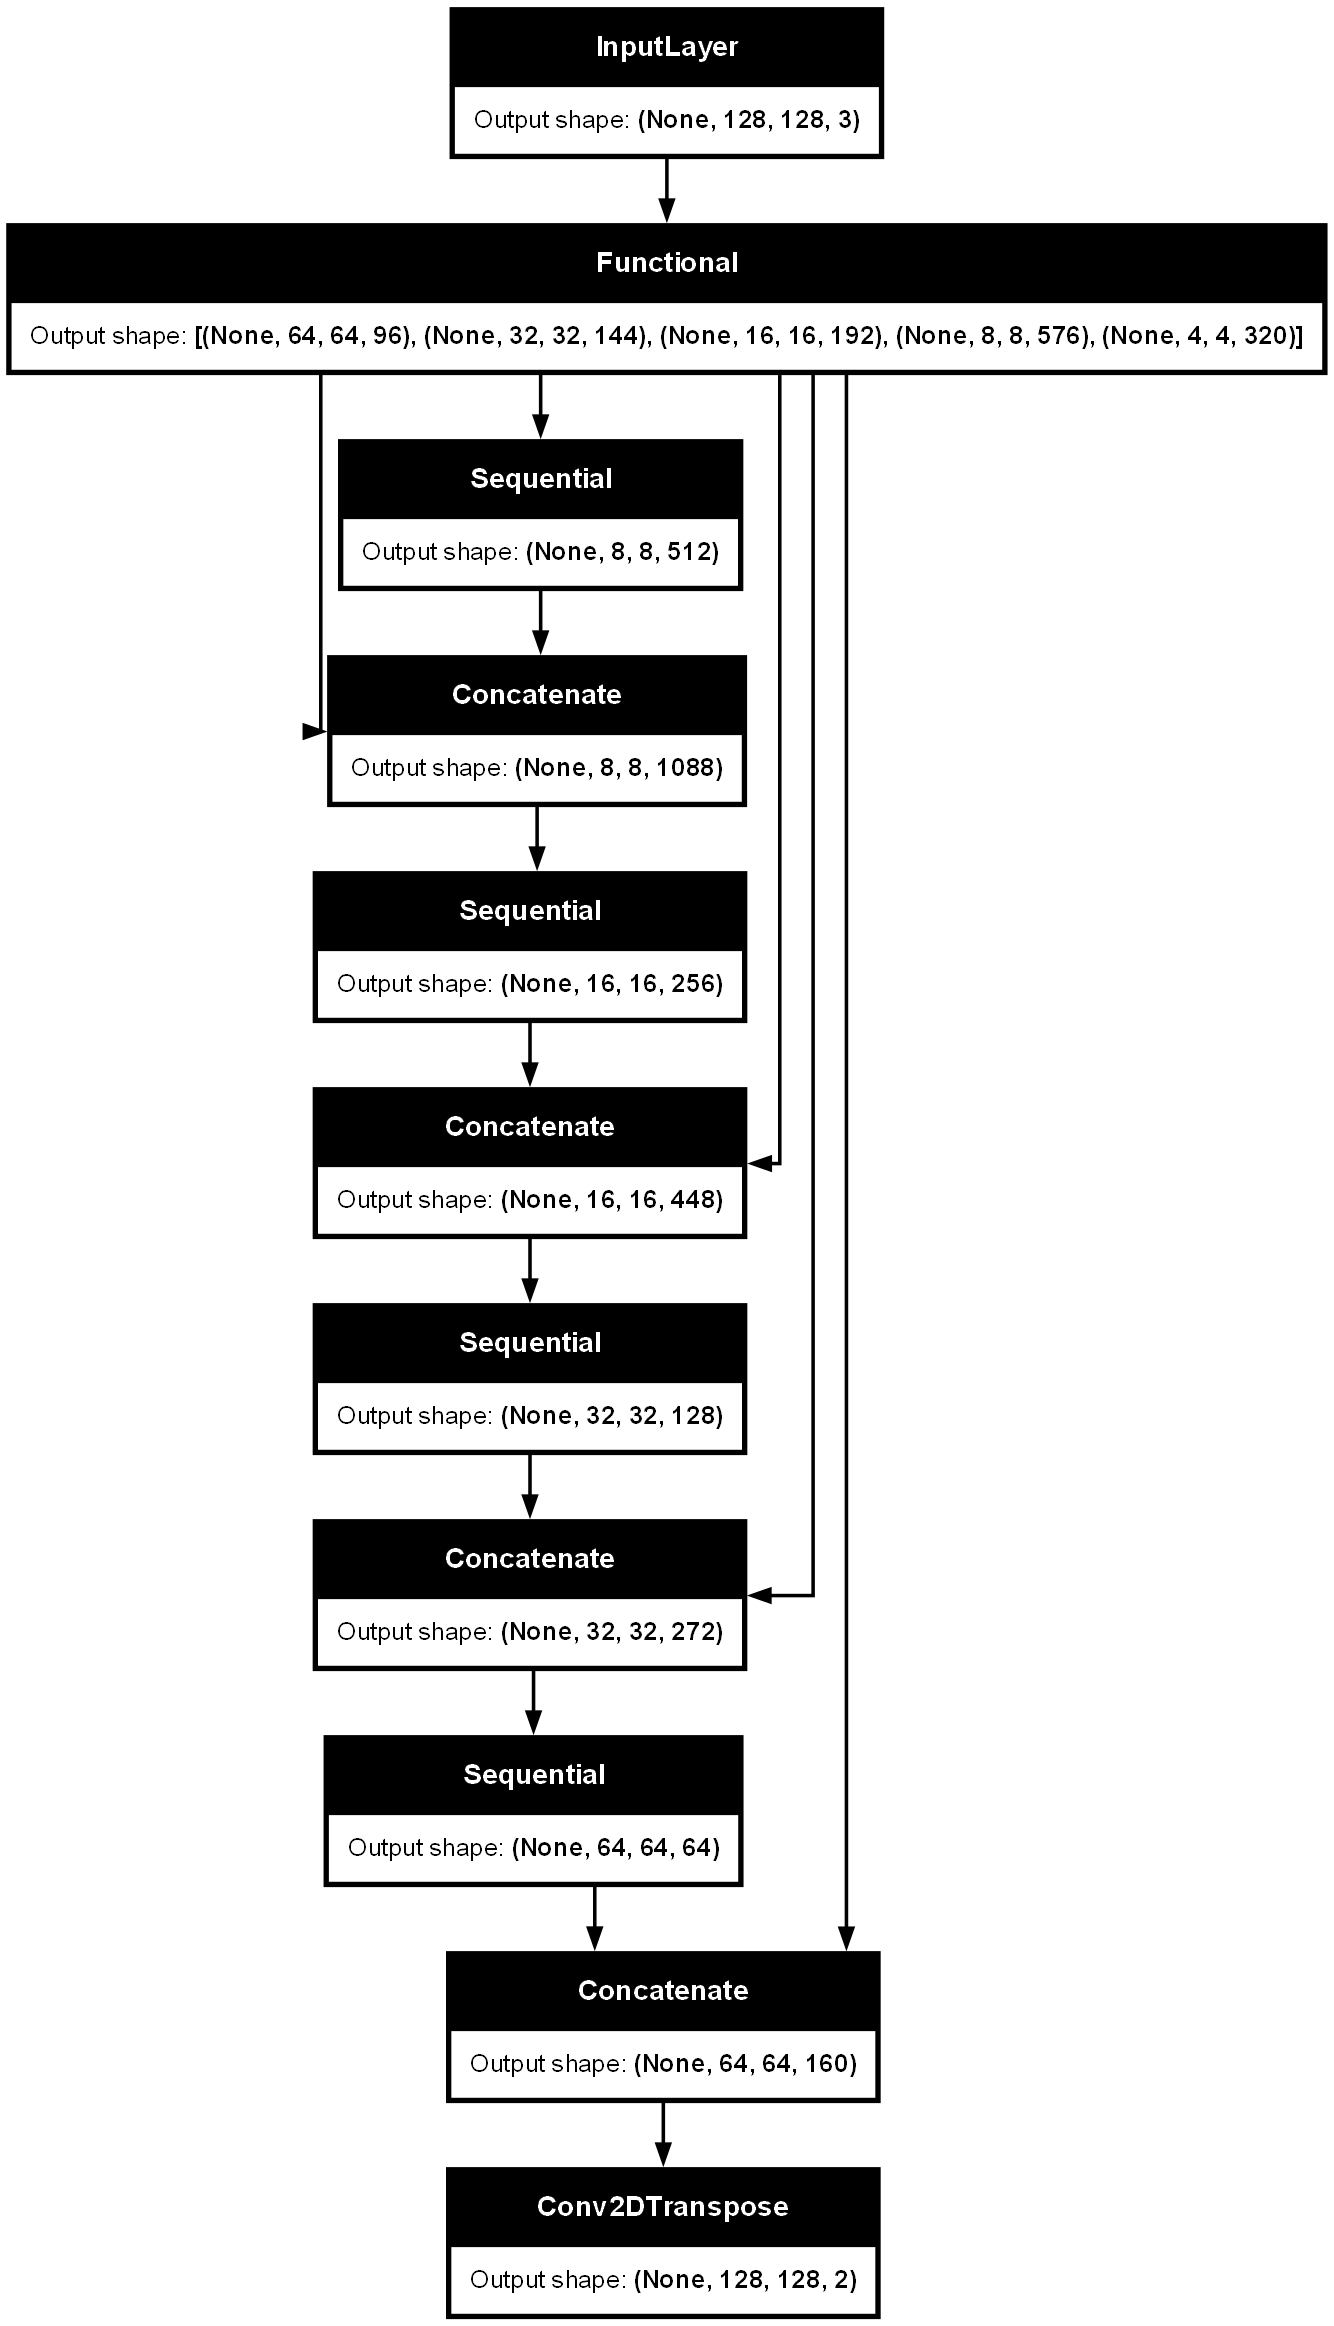
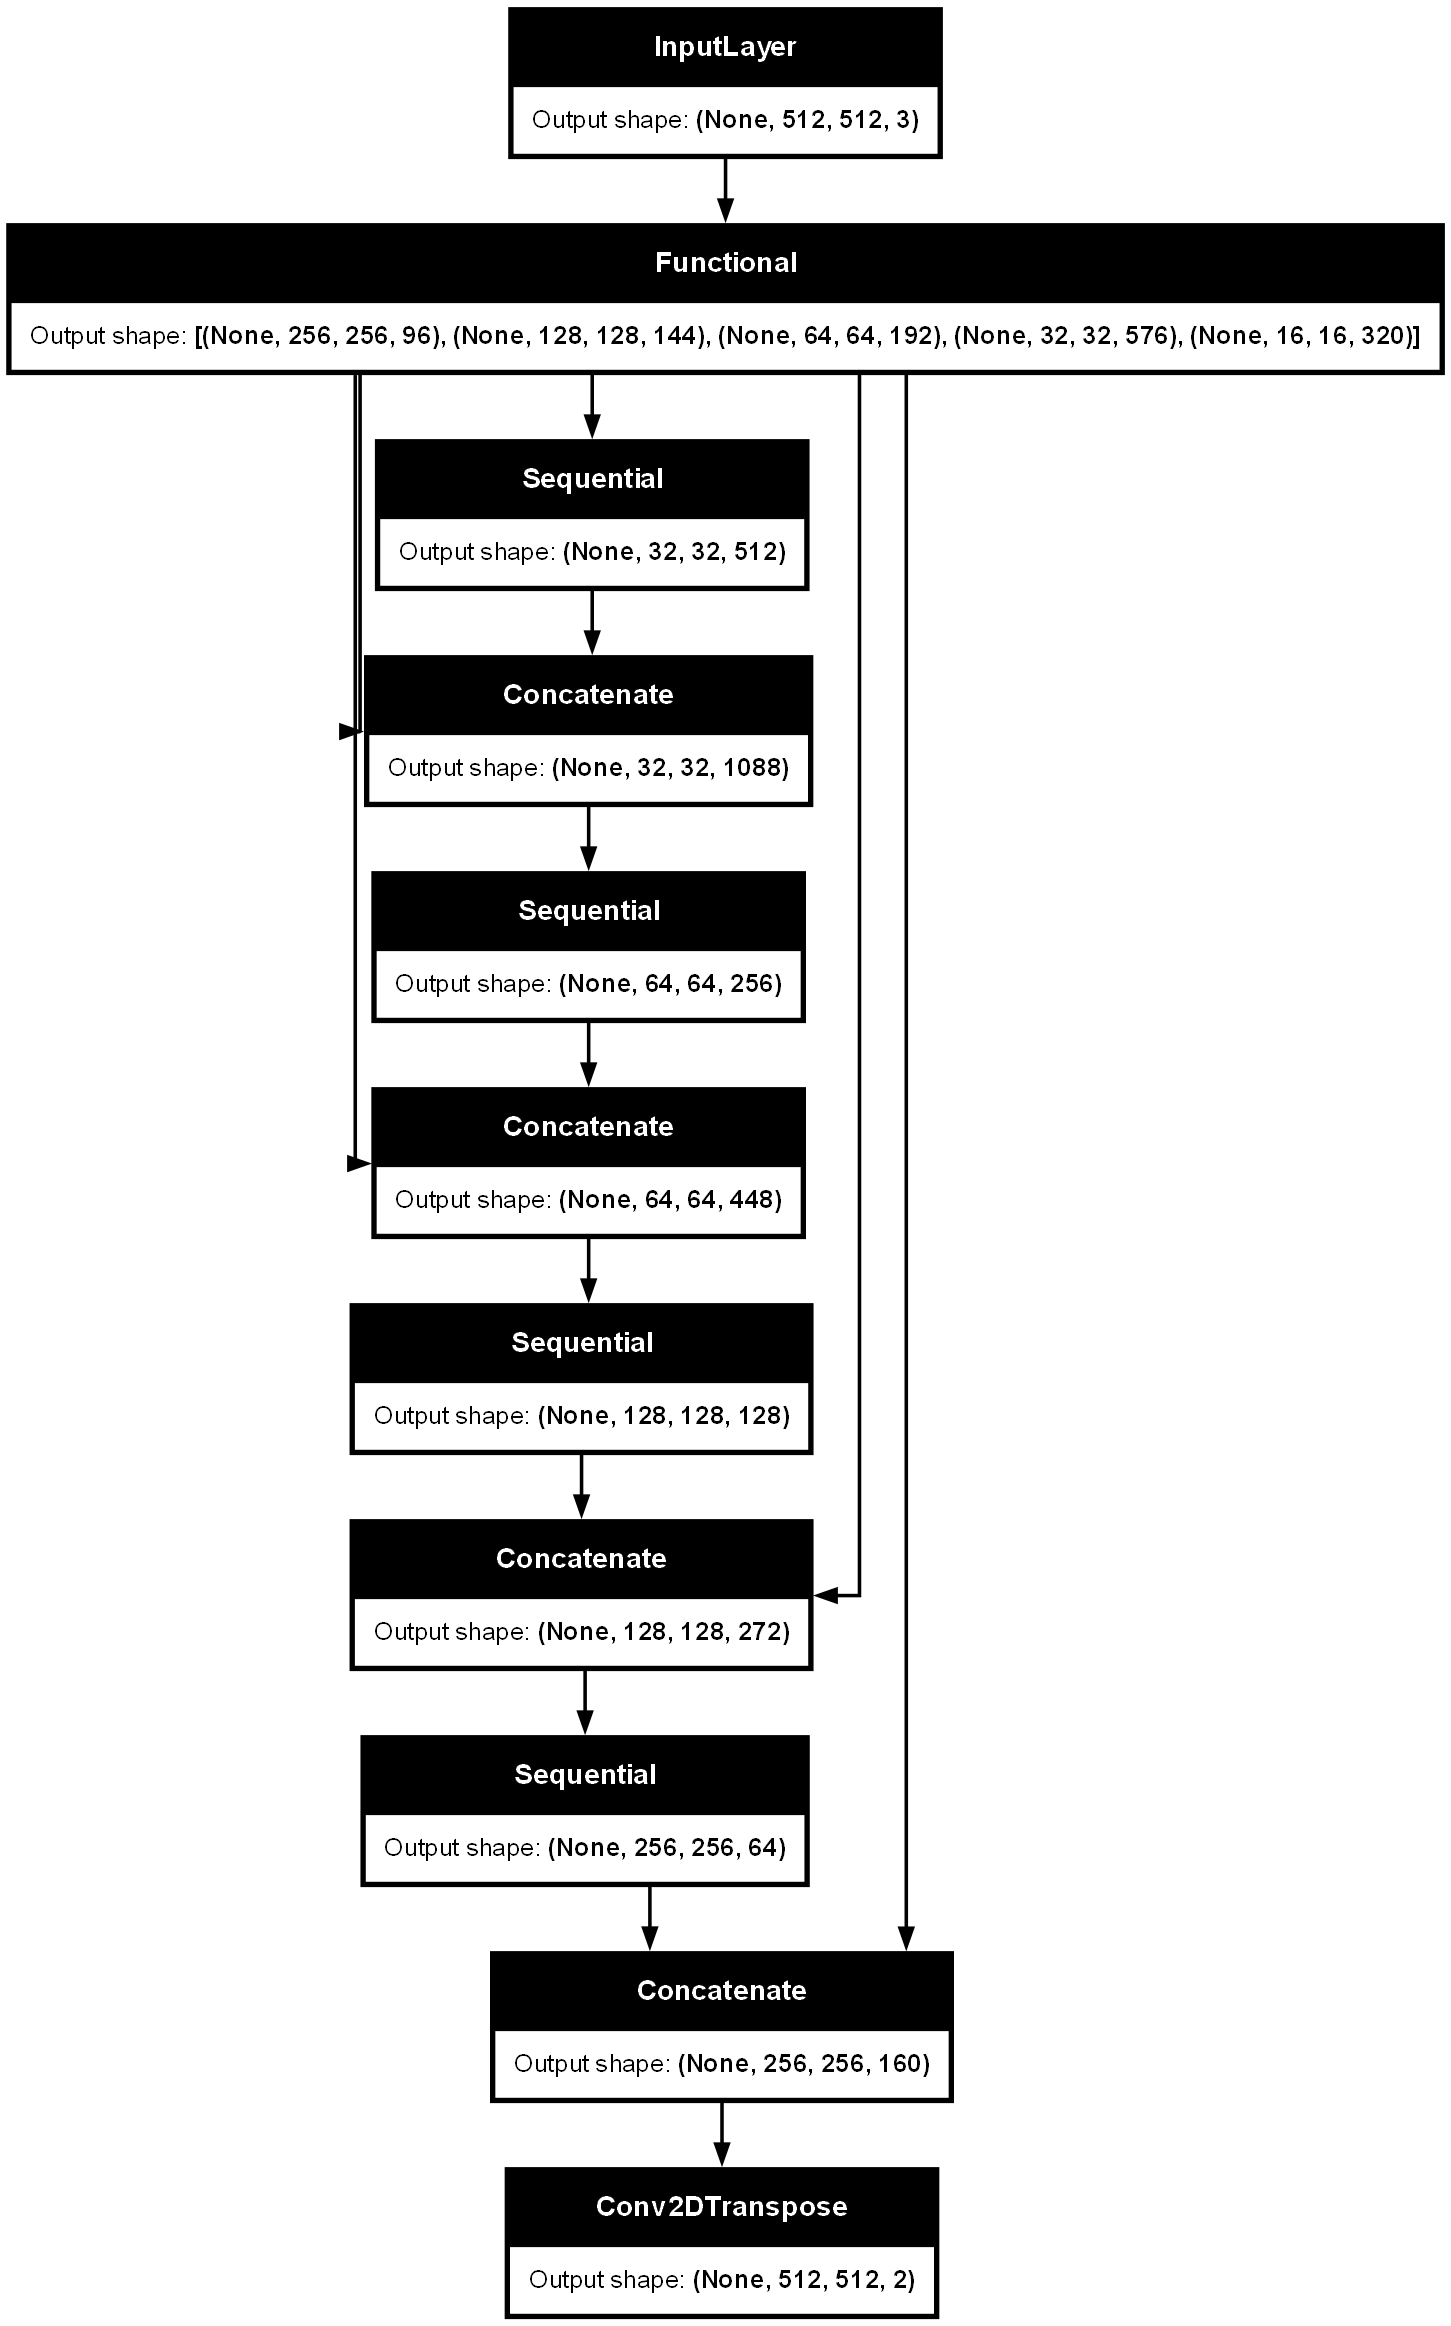
Imgprove the network architecture Refactor display fucntion Add image augmentation

diff --git a/na5.py b/na5.py
@@ -6,6 +6,18 @@ from tensorflow_examples.models.pix2pix import pix2pix
 import matplotlib.pyplot as plt
 
 
+class Augment(tf.keras.layers.Layer):
+    def __init__(self, seed=42):
+        super().__init__()
+        self.augment_inputs = tf.keras.layers.RandomFlip("horizontal", seed=seed)
+        self.augment_labels = tf.keras.layers.RandomFlip("horizontal", seed=seed)
+
+    def call(self, inputs, labels):
+        inputs = self.augment_inputs(inputs)
+        labels = self.augment_labels(labels)
+        return inputs, labels
+
+
 def find_vessels(retina_image, mask):
     print("Finding vessels...")
 
@@ -41,7 +53,7 @@ def load_images():
         mask = np.array(Image.open(mask_path))
 
         retina_image, mask = normalize(retina_image, mask)
-        retina_image, mask = resize(retina_image, mask)
+        retina_image, mask = resize(retina_image, mask, size=(512, 512))
 
         if retina_image is None:
             print(f"Failed to load image: {image_path}")
@@ -59,74 +71,84 @@ def load_images():
     return retina_images, masks
 
 
-def display_sample(retina_image, true_mask, pred_mask=None):
-    plt.figure(figsize=(12, 6))
-    plt.subplot(1, 2, 1)
-    plt.title("Retina Image")
-    plt.imshow(retina_image.numpy().squeeze(), cmap="gray")
-    plt.subplot(1, 2, 2)
-    plt.title("True Mask")
-    plt.imshow(true_mask.numpy().squeeze(), cmap="gray")
-    plt.savefig("sample.png")
-    # plt.show()
+def display(retina_image, true_mask, pred_mask=None):
 
+    figs = 3 if pred_mask is not None else 2
+    plt.figure(figsize=(figs * 6, 6))
 
-def display_prediction(retina_image, true_mask, pred_mask):
-    plt.figure(figsize=(18, 6))
-    plt.subplot(1, 3, 1)
+    plt.subplot(1, figs, 1)
     plt.title("Retina Image")
     plt.imshow(tf.squeeze(retina_image).numpy(), cmap="gray")
-    plt.subplot(1, 3, 2)
+
+    plt.subplot(1, figs, 2)
     plt.title("True Mask")
     plt.imshow(tf.squeeze(true_mask).numpy(), cmap="gray")
 
-    plt.subplot(1, 3, 3)
-    plt.title("Predicted Mask")
-    plt.imshow(tf.squeeze(pred_mask).numpy(), cmap="gray")
+    if pred_mask is not None:
+        plt.subplot(1, figs, 3)
+        plt.title("Predicted Mask")
+        plt.imshow(tf.squeeze(pred_mask).numpy(), cmap="gray")
 
-    plt.savefig("sample_comparison.png")
+    plt.savefig("sample.png")
     plt.show()
 
 
-# def create_mask(pred_mask):
-#     pred_mask = tf.math.argmax(pred_mask, axis=-1)
-#     pred_mask = pred_mask[..., tf.newaxis]
-#     return pred_mask[0]
+def create_mask(pred_mask):
+    pred_mask = tf.math.argmax(pred_mask, axis=-1)
+    pred_mask = pred_mask[..., tf.newaxis]
+    return pred_mask[0]
 
 
-# def show_predictions(dataset=None, num=1):
-#     if dataset:
-#         for image, mask in dataset.take(num):
-#             pred_mask = model.predict(image)
-#             display_sample([image[0], mask[0], create_mask(pred_mask)])
-#     else:
-#         display_sample(
-#             [
-#                 sample_image,
-#                 sample_mask,
-#                 create_mask(model.predict(sample_image[tf.newaxis, ...])),
-#             ]
-#         )
+def show_predictions(
+    dataset=None, num=1, model=None, sample_image=None, sample_mask=None
+):
+
+    if dataset:
+        for image, mask in dataset.take(num):
+            pred_mask = model.predict(image)
+            display([image[0], mask[0], create_mask(pred_mask)])
+    else:
+        display(
+            [
+                sample_image,
+                sample_mask,
+                create_mask(model.predict(sample_image[tf.newaxis, ...])),
+            ]
+        )
 
 
-def train_model():
+def crate_and_train():
 
+    # Load the images
     retina_images, masks = load_images()
-    random_index = np.random.randint(0, len(retina_images))
-    display_sample(retina_images[random_index], masks[random_index])
 
+    # Split the data into training and testing sets
     train_indices = np.random.rand(len(retina_images)) < 0.7
-
     x_train = np.array(retina_images)[train_indices]
     y_train = np.array(masks)[train_indices]
     x_test = np.array(retina_images)[~train_indices]
     y_test = np.array(masks)[~train_indices]
 
-    print("Training data:", x_train.shape, y_train.shape)
-    print("Test data:", x_test.shape, y_test.shape)
+    # Prepare training and testing batches
+    train_batches = (
+        tf.data.Dataset.from_tensor_slices((x_train, y_train))
+        .cache()
+        .shuffle(len(x_train))
+        .batch(3)
+        .repeat()
+        .map(Augment())
+        .prefetch(buffer_size=tf.data.experimental.AUTOTUNE)
+    )
 
+    test_batches = (
+        tf.data.Dataset.from_tensor_slices((x_test, y_test)).batch(2).repeat()
+    )
+
+    print()
+
+    # Create the model
     base_model = tf.keras.applications.MobileNetV2(
-        input_shape=x_train[0].shape, include_top=False
+        input_shape=(512, 512, 3), include_top=False
     )
 
     layer_names = [
@@ -154,40 +176,33 @@ def train_model():
         metrics=["accuracy"],
     )
 
+    # Save the model architecture to a file
     tf.keras.utils.plot_model(
         model, show_shapes=True, expand_nested=False, dpi=128, to_file="model.png"
     )
 
-    model.fit(x_train, y_train, epochs=10, validation_data=(x_test, y_test))
+    # Train the model
+    model.fit(
+        train_batches,
+        epochs=10,
+        steps_per_epoch=5,
+        validation_data=test_batches,
+        validation_steps=5,
+    )
 
+    # Evaluate the model
     predictions = model.predict(x_test)
-
-    # print("Predictions shape:", predictions.shape)
-    print("True mask shape:", y_test.shape)
-
-    print("Predictions shape:", predictions.shape)
-    # print("Predictions:", predictions[0])
-    # print("True mask:", y_test[0])
     predictions = tf.math.argmax(predictions, axis=-1)
     predictions = predictions[..., tf.newaxis]
-    print("Predictions shape:", predictions.shape)
-    # print("Predictions:", predictions[0])
     predictions = tf.squeeze(predictions)
-    print("Predictions shape:", predictions.shape)
 
-    # print("true mask: ", y_test[0])
-    # print("predictions: ", predictions[0])
-    for i in range(128):
-        for j in range(128):
-            print(y_test[0][i][j], predictions[0][i][j])
-
-    for i in range(2):
-        display_prediction(x_test[i], y_test[i], predictions[i])
+    # Display the predictions
+    display(x_test[0], y_test[0], predictions[0])
 
 
 def unet_model(output_channels, down_stack, up_stack):
 
-    inputs = tf.keras.layers.Input(shape=[128, 128, 3])
+    inputs = tf.keras.layers.Input(shape=[512, 512, 3])
     skips = down_stack(inputs)
     x = skips[-1]
     skips = reversed(skips[:-1])
@@ -209,4 +224,4 @@ def unet_model(output_channels, down_stack, up_stack):
 if __name__ == "__main__":
     # Set seed for reproducibility, the number was chosen by @rafixxx4k, DM him for more information
     np.random.seed(42)
-    train_model()
+    crate_and_train()
